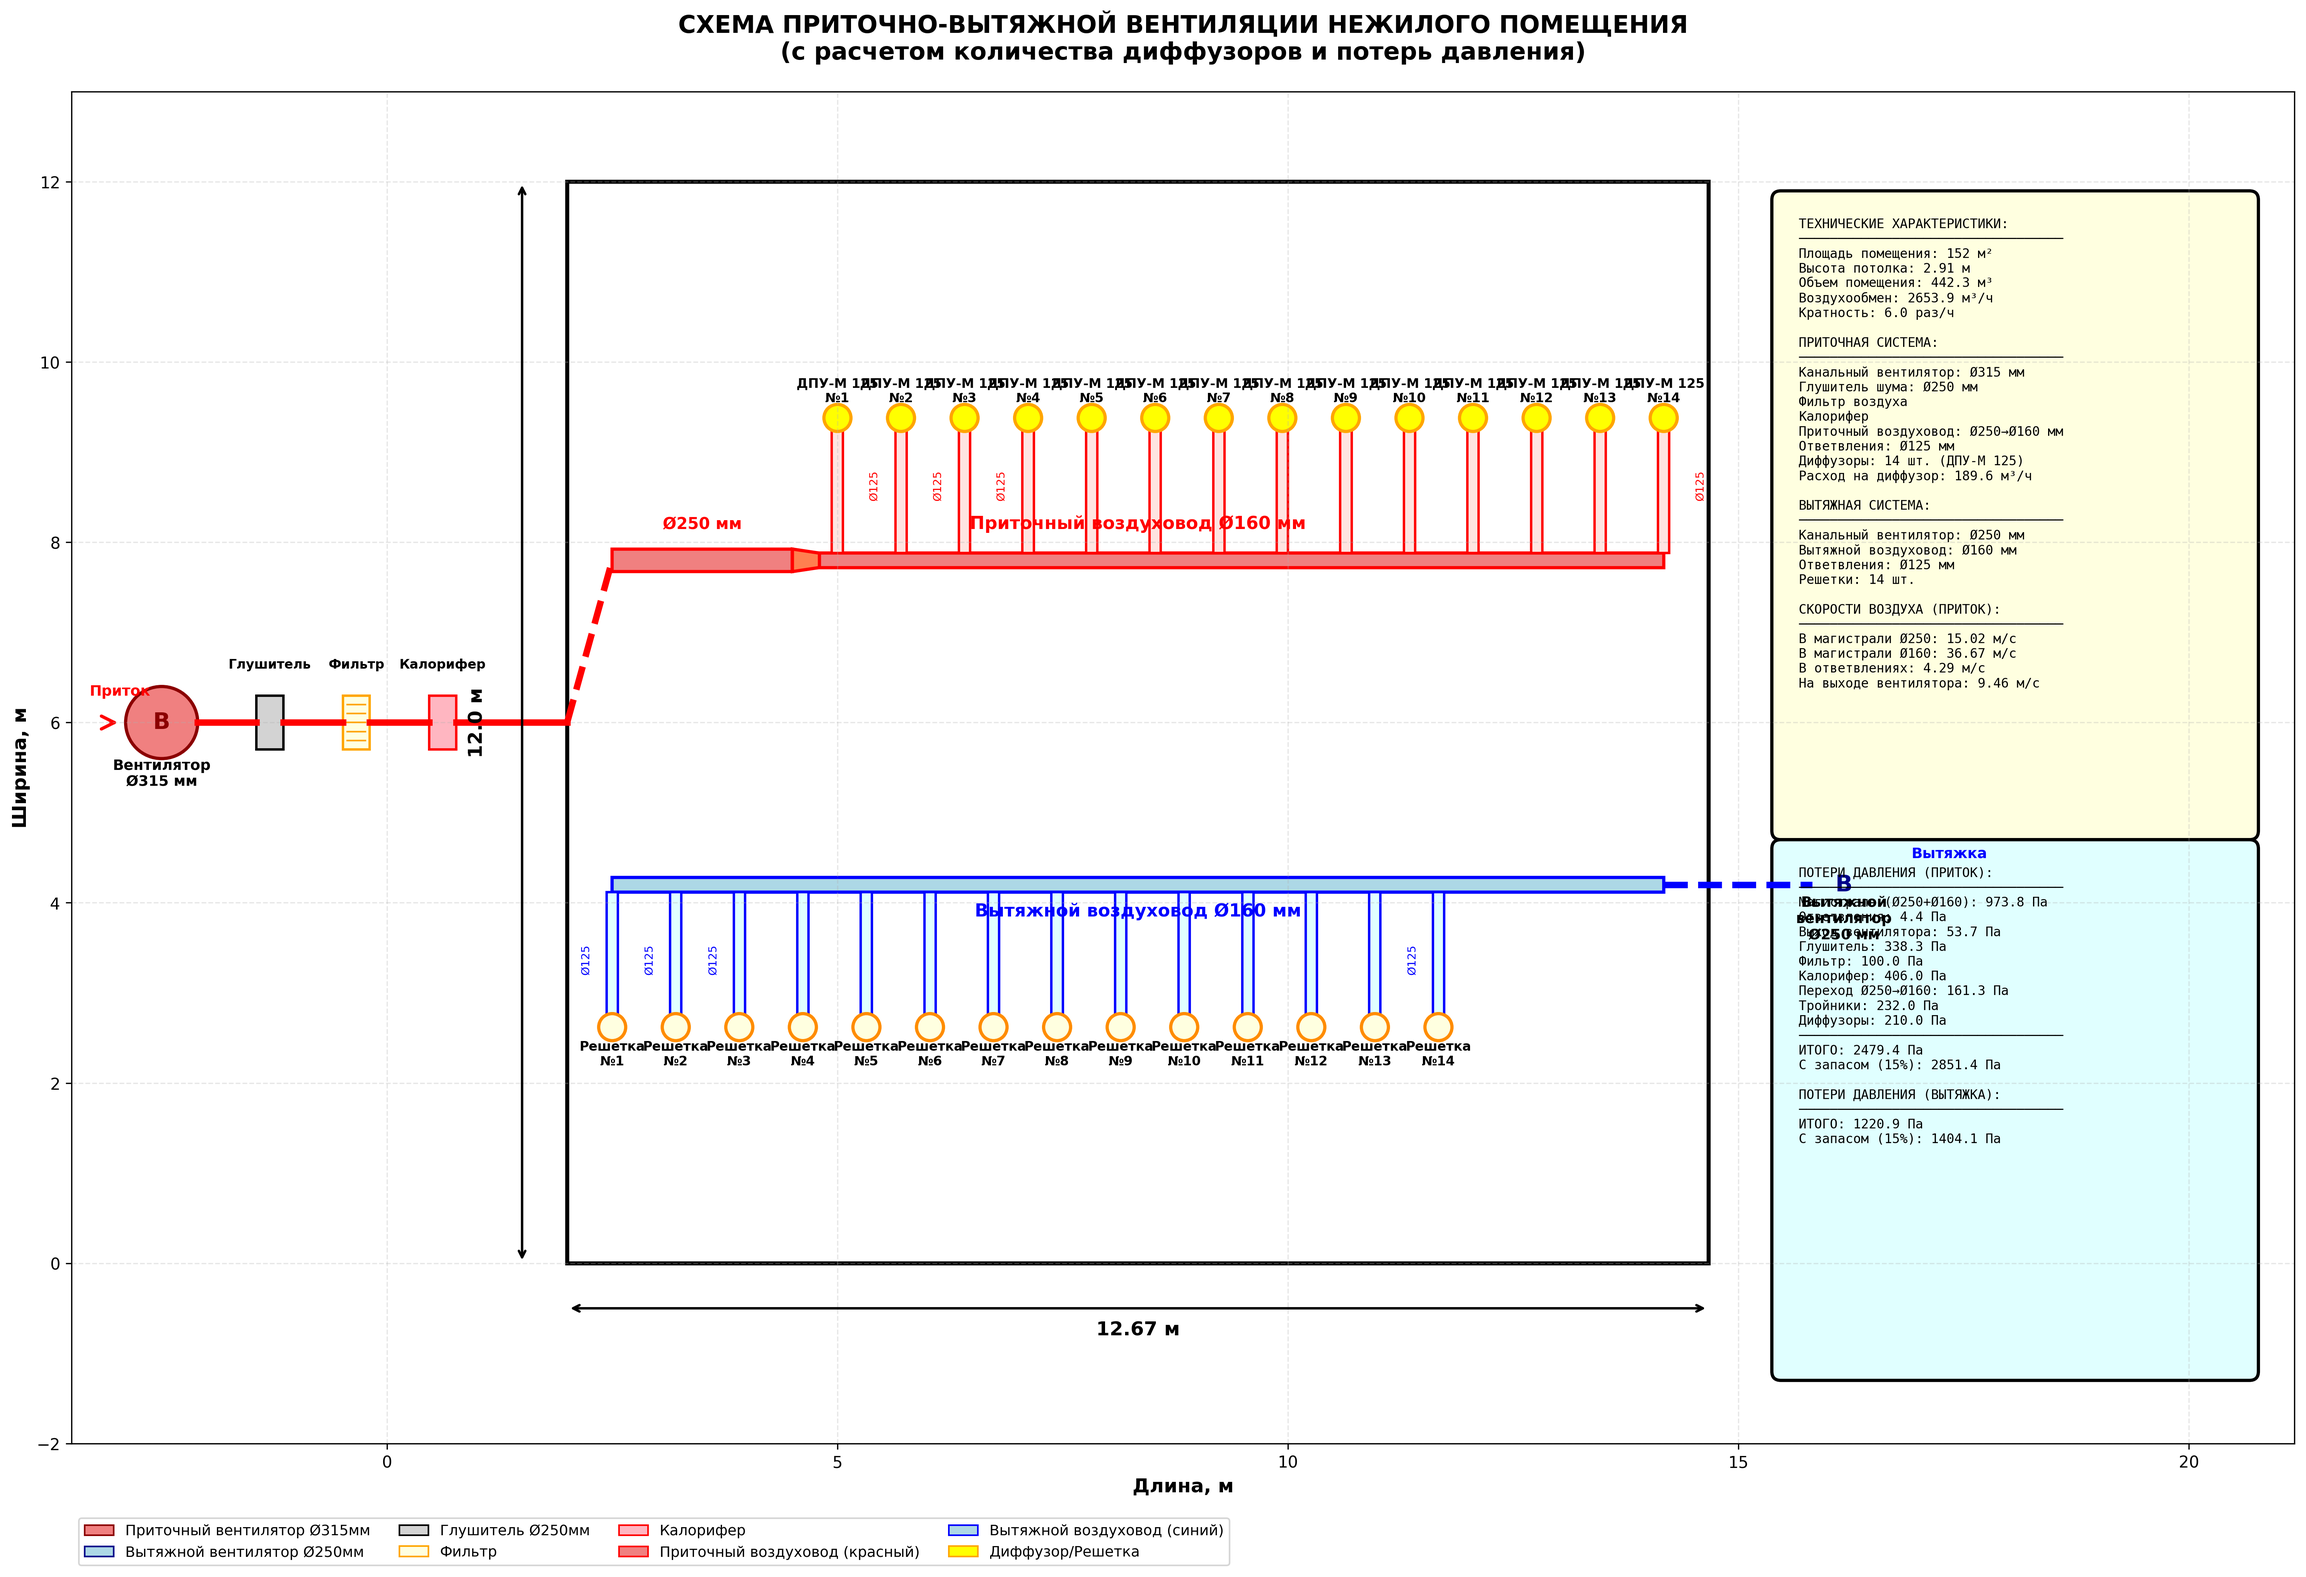
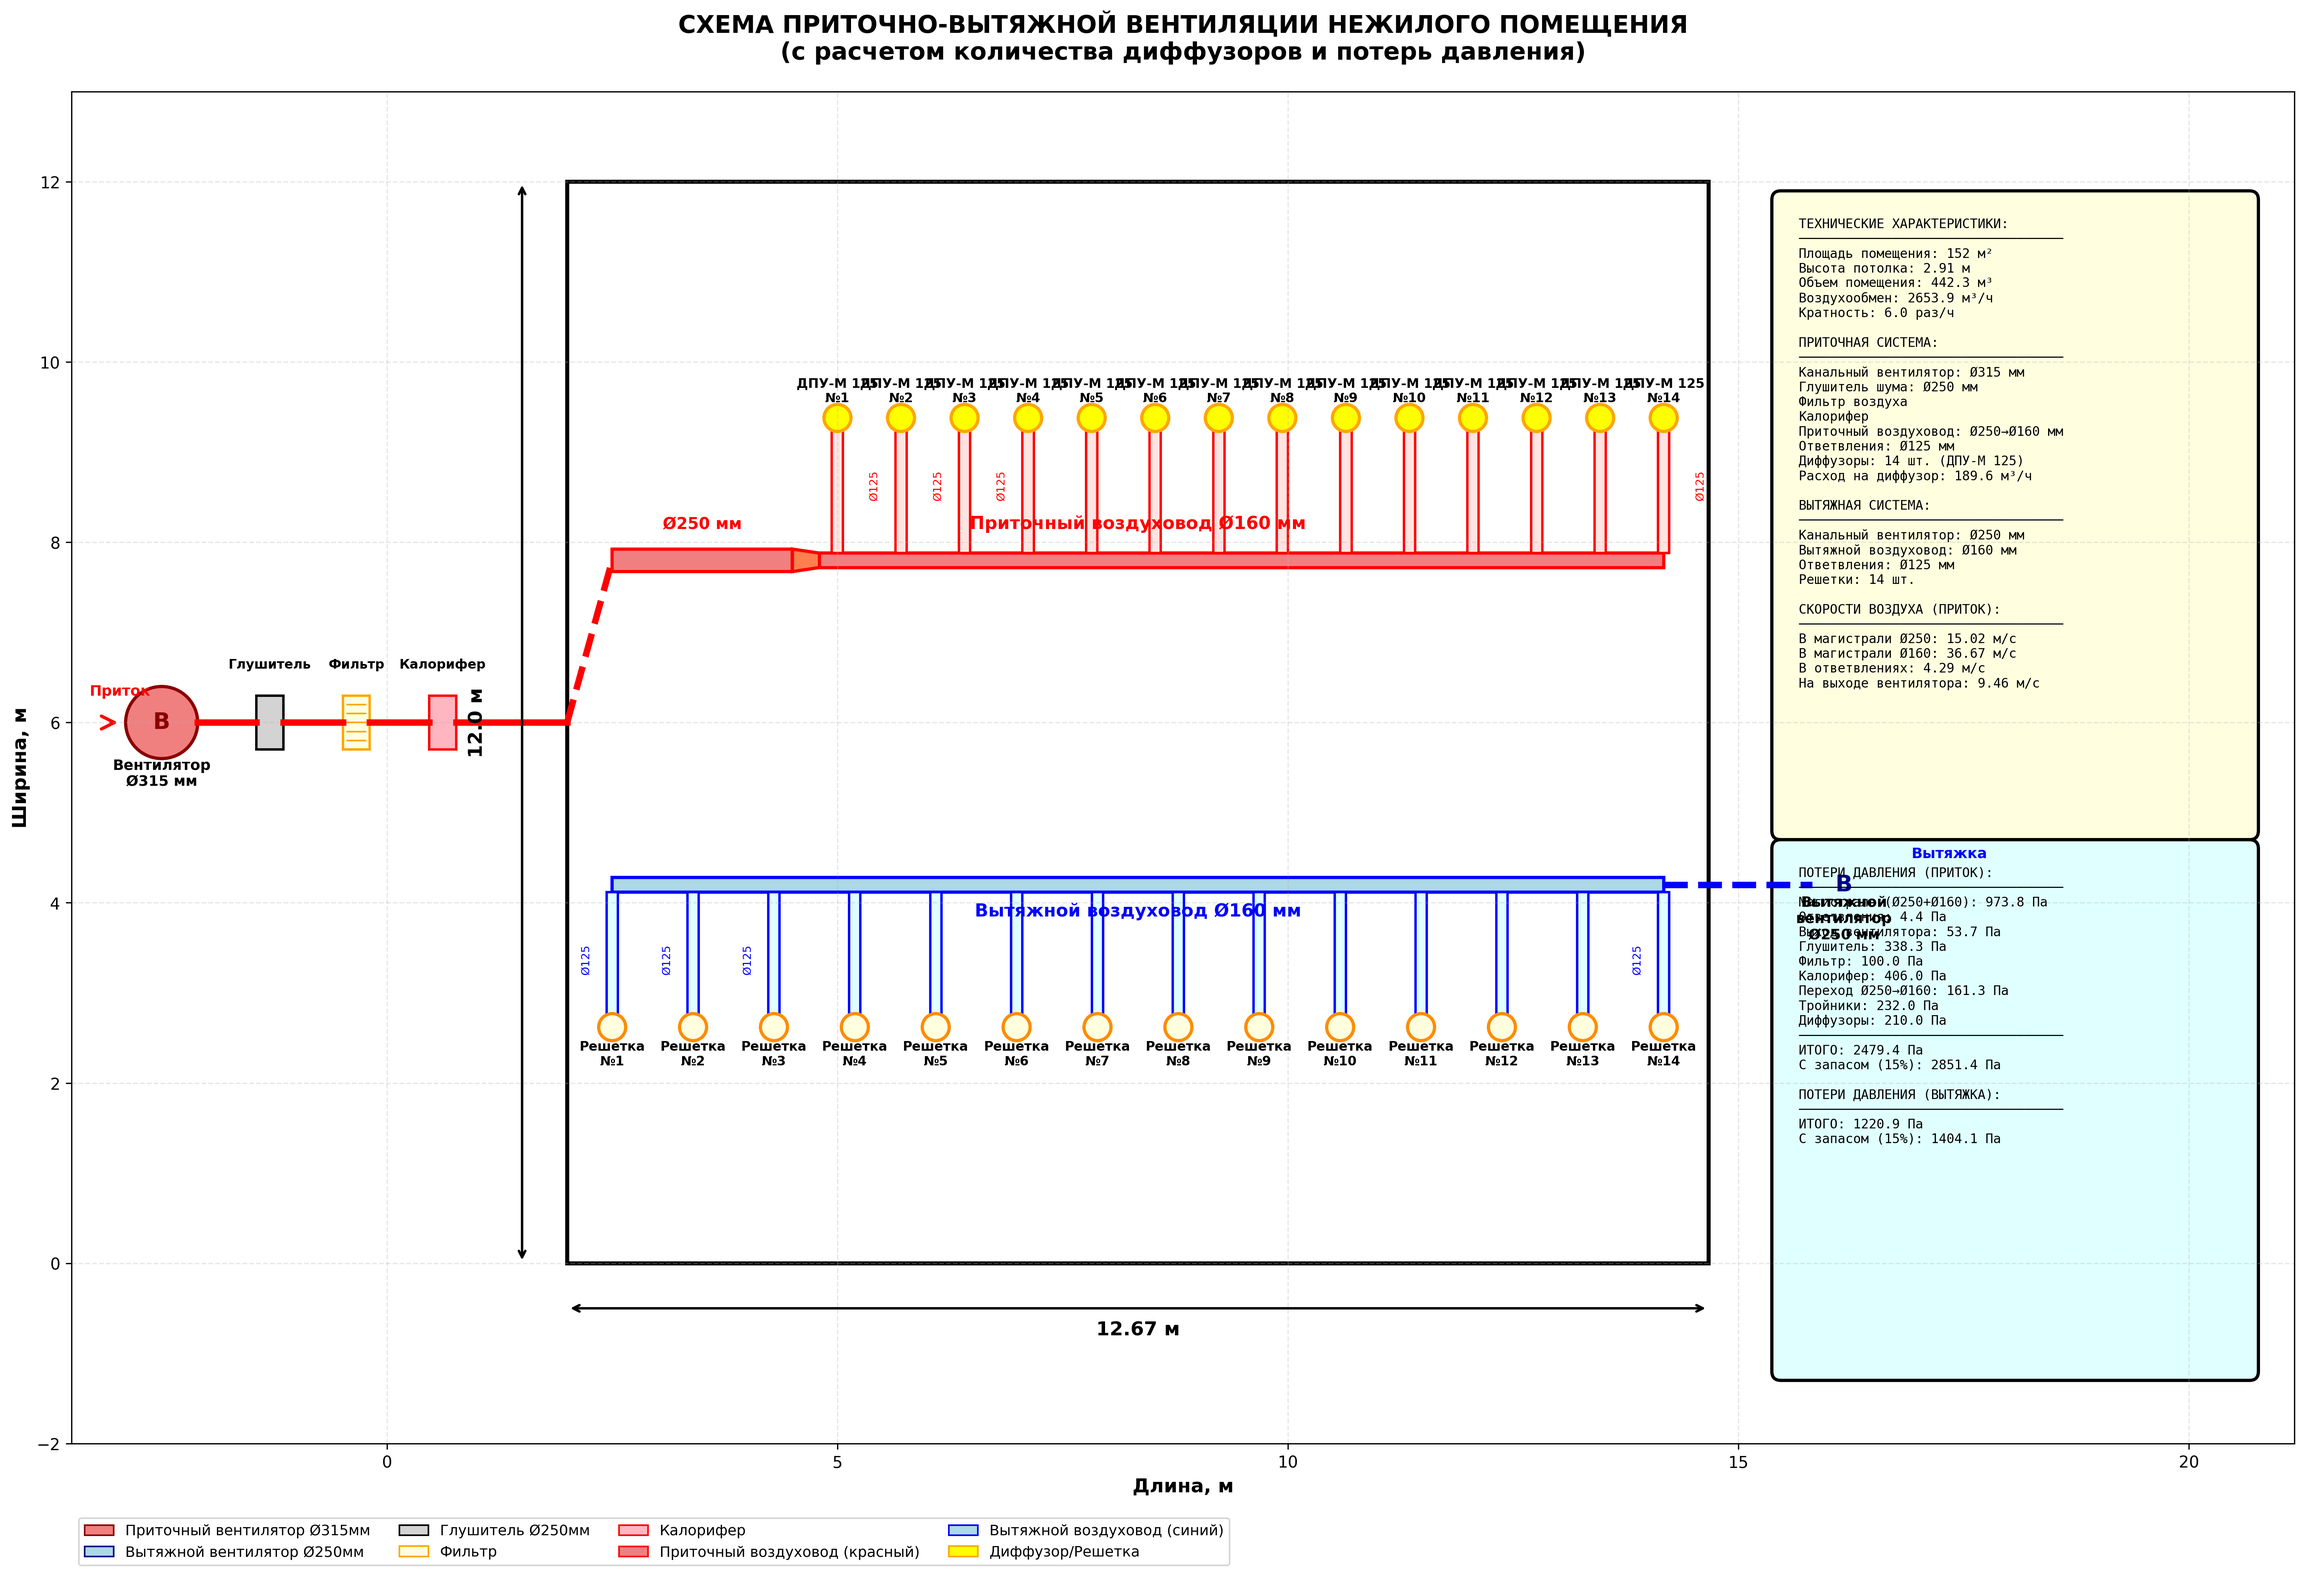
Fix exhaust grille spacing to span full duct length

Changed region(s): [[0.2807, 0.5606, 0.7485, 0.6851]]

diff --git a/generate_ventilation_scheme.py b/generate_ventilation_scheme.py
@@ -439,9 +439,11 @@ def create_ventilation_scheme():
     
     # Calculate exhaust grille positions (same number as supply diffusers)
     num_grilles = num_diffusers
+    exhaust_span = exhaust_duct_end_x - exhaust_duct_start_x
+    exhaust_spacing = exhaust_span / (num_grilles - 1) if num_grilles > 1 else 0
     grille_positions = []
     for i in range(num_grilles):
-        x_pos = exhaust_duct_start_x + i * spacing if num_grilles > 1 else 2 + room_length/2
+        x_pos = exhaust_duct_start_x + i * exhaust_spacing if num_grilles > 1 else 2 + room_length/2
         grille_positions.append((x_pos, exhaust_duct_y))
     
     # Draw EXHAUST branch ducts and grilles
